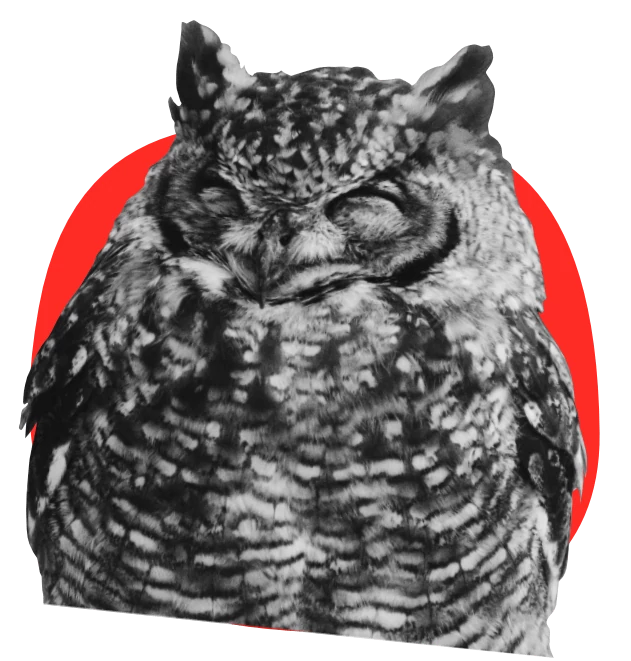
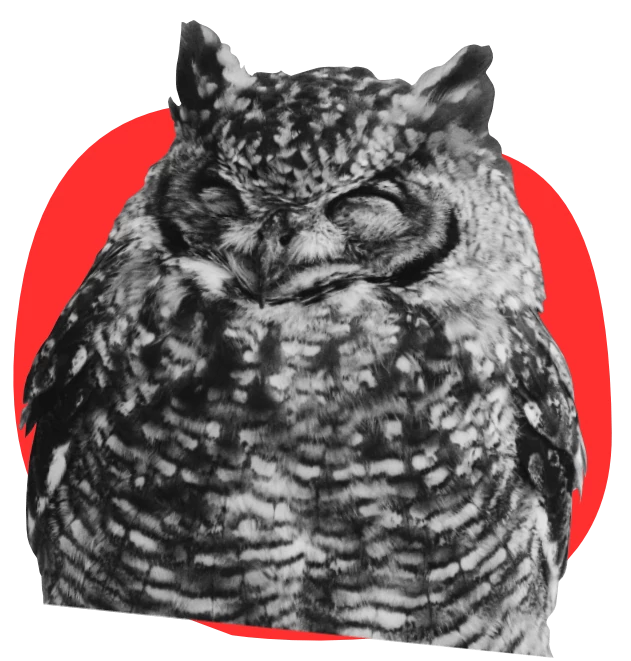
Corrects color of Limbo Owl

diff --git a/src/css/modules/home-jxa.css b/src/css/modules/home-jxa.css
@@ -77,6 +77,68 @@
   width: 100%;
 }
 
+.jxa-readers-bumper {
+  background: var(--jxa-bg);
+  background-size: 1000px;
+}
+
+.jxa-readers-bumper h5 {
+  background-color: #000;
+}
+
+.jxa-readers-bumper b {
+  display: inline-block;
+  transform: translateY(-2px);
+}
+
+.jxa-readers-bumper i {
+  display: inline-block;
+  transform: translateY(4px) translateX(2px) rotate(1deg);
+}
+
+.bumper {
+  font-size: 0.8rem;
+  padding-bottom: 120vw;
+  padding-top: 100vw;
+  position: relative;
+  text-align: center;
+}
+
+.bumper::after {
+  background-color: currentColor;
+  bottom: 0;
+  --line-clip: polygon(
+    0 6px,
+    100% 0,
+    30% 25%,
+    100% 50%,
+    30% 100%,
+    50% 100%,
+    0 99.8%
+  );
+  -webkit-clip-path: var(--line-clip);
+  clip-path: var(--line-clip);
+  content: "";
+  height: 100%;
+  left: calc(50% - 6px);
+  position: absolute;
+  width: 5px;
+}
+
+@media (min-width: 85em) {
+  .bumper {
+    padding-bottom: 100vw;
+    padding-top: 60vw;
+  }
+}
+
+@media (min-width: 112.5em) {
+  .bumper {
+    padding-bottom: 120rem;
+    padding-top: 68rem;
+  }
+}
+
 @media (min-width: 64em) {
   .poster-fill-jxa::before {
     margin-bottom: -25vw;

diff --git a/layouts/home.html b/layouts/home.html
@@ -467,6 +467,12 @@
       </div>
     </section>
 
+    <div class="bumper jxa-readers-bumper">
+      <h5>
+        m<b>e</b>s<i>s</i>y
+      </h5>
+    </div>
+
     <div hidden>
     <section class="poster-bumper poster-intro">
       <div class="poster-fill-default">
@@ -478,7 +484,7 @@
         </p>
       </div>
     </section>
-  </div>
+
 
     <section class="poster-readability project" id="readability">
       <div class="poster-fill-readability">
@@ -542,7 +548,7 @@
         </div>
       </div>
     </section>
-
+    </div>
 
     <div hidden>
 
@@ -573,9 +579,6 @@
         </section>
 
       <div>
-        <p>Unhinged</p>
-        <p>Vocal</p>
-        <p>A force</p>
         <p>Not held together very tight</p>
         <p>Stubborn as a mule</p>
         <p>No tact</p>
@@ -593,8 +596,6 @@
         <p>Nostalgia</p>
         <p>Simple is boring</p>
         <p>Complicated</p>
-        <p>Messy</p>
-        <p>But</p>
         <p>More ambition than talent</p>
         <p>Big in Japan</p>
         <p>I miss my dog</p>

diff --git a/src/css/modules/home-colorme.css b/src/css/modules/home-colorme.css
@@ -114,6 +114,9 @@
 
 .colorme-jxa-bumper h5 {
   background-color: #fff;
+}
+
+.bumper h5 {
   display: inline-block;
   padding: 0.2rem 0;
   position: relative;
